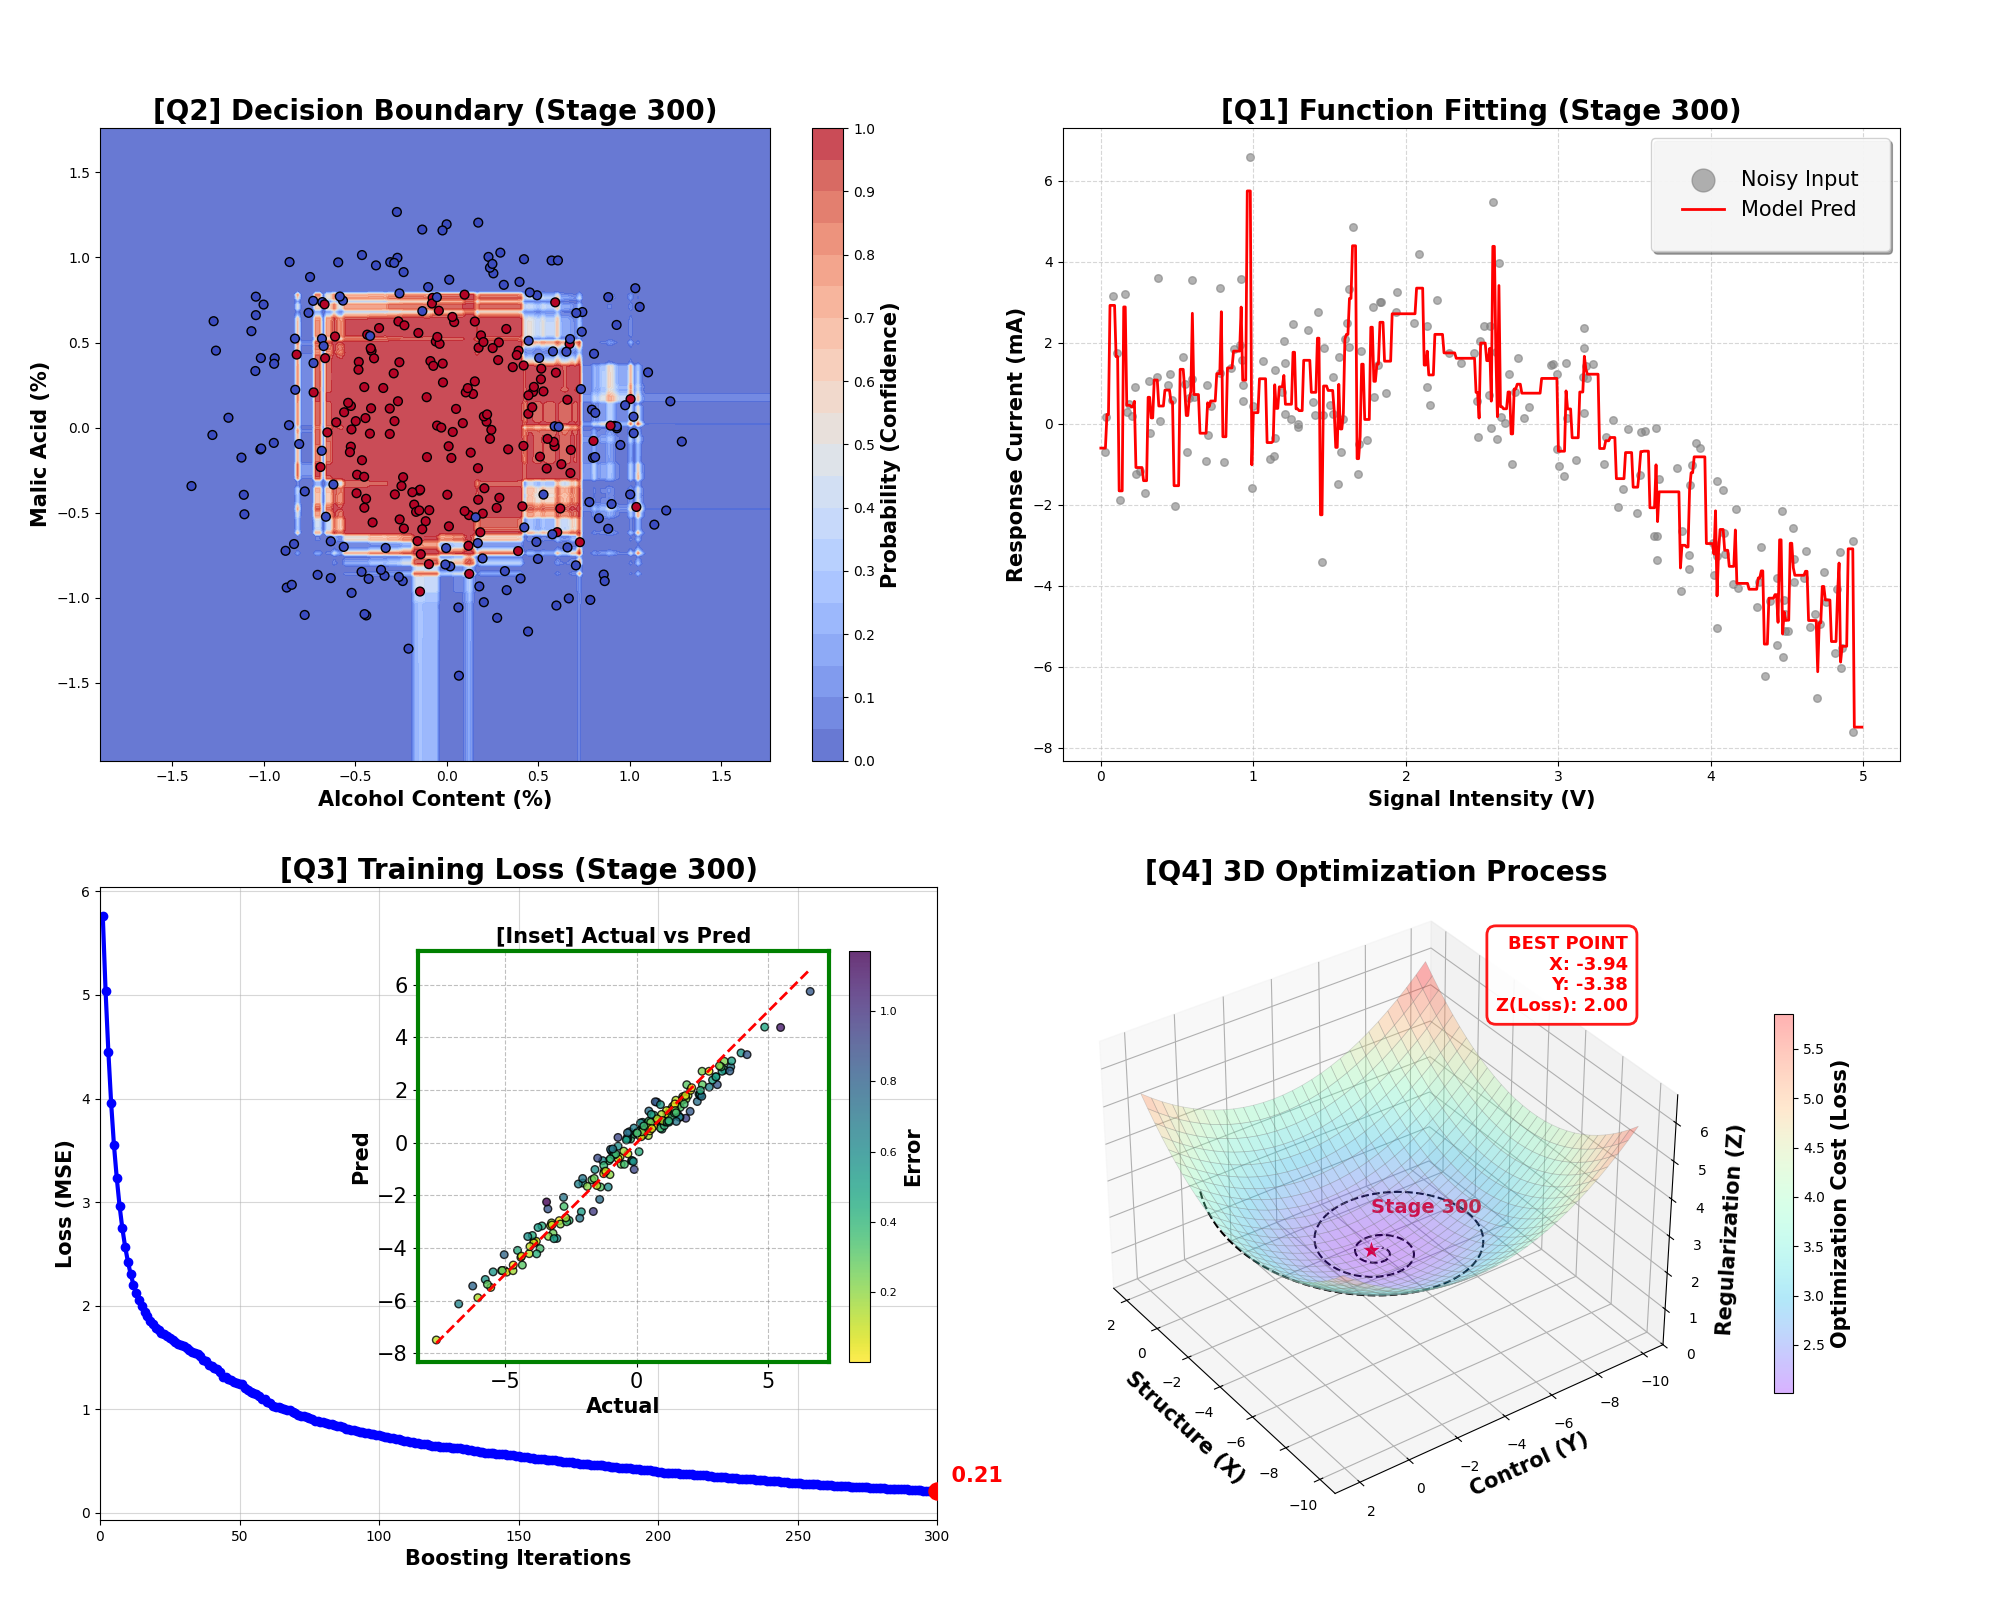
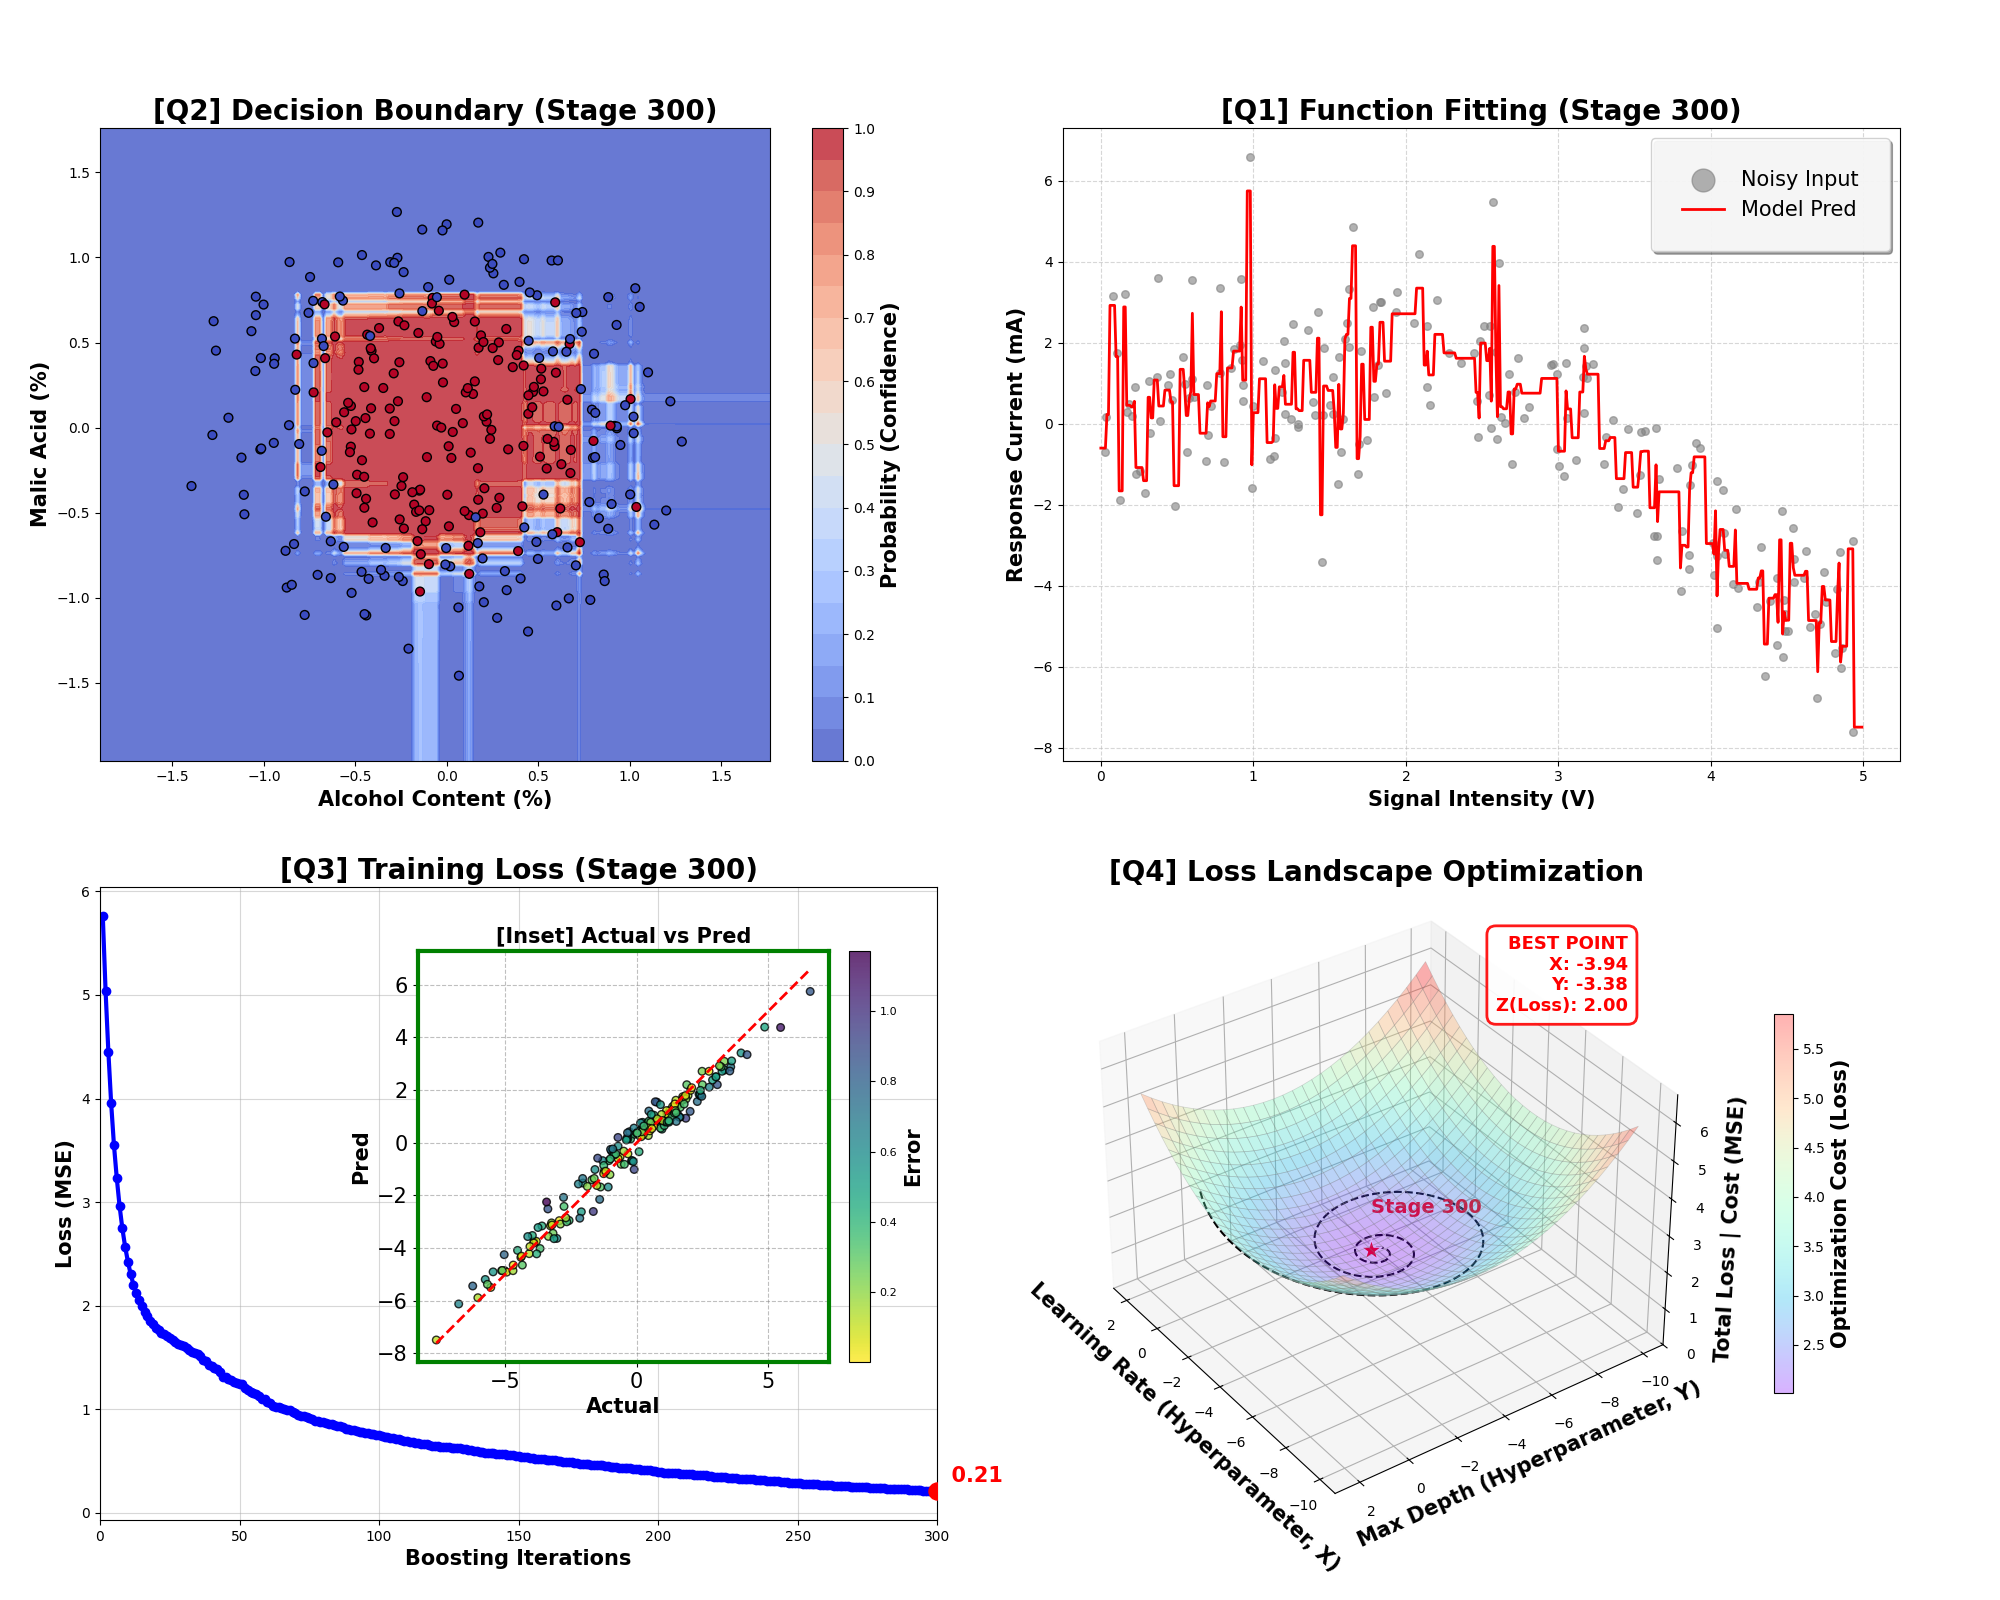
XGBoost Q4 라벨수정

diff --git a/01_GB_v3.py b/01_GB_v3.py
@@ -79,7 +79,10 @@ for idx, s in enumerate(stages):
     visual_z = 0.05 * ((cur_x - TARGET_X)**2 + (cur_y - TARGET_Y)**2) + MIN_EXPECTED_LOSS
     
     csv_data.append({
-        'Stage': s, 'Structure_X': cur_x, 'Control_Y': cur_y, 'Regularization_Z': visual_z
+        'Stage': s, 
+        'Learning Rate (Hyperparameter, X)': cur_x, 
+        'Max Depth (Hyperparameter, Y)': cur_y, 
+        'Total Loss | Cost (MSE)': visual_z
     })
 
     # --- 캔버스 생성 ---
@@ -186,9 +189,9 @@ for idx, s in enumerate(stages):
                             edgecolor='gray', linewidth=0.5, rstride=1, cstride=1)
     
     # Trajectory
-    hist_x = [d['Structure_X'] for d in csv_data]
-    hist_y = [d['Control_Y'] for d in csv_data]
-    hist_z = [d['Regularization_Z'] for d in csv_data]
+    hist_x = [d['Learning Rate (Hyperparameter, X)'] for d in csv_data]
+    hist_y = [d['Max Depth (Hyperparameter, Y)'] for d in csv_data]
+    hist_z = [d['Total Loss | Cost (MSE)'] for d in csv_data]
     
     ax4.plot(hist_x, hist_y, hist_z, color='black', linewidth=1.5, linestyle='--')
     ax4.scatter(cur_x, cur_y, visual_z, color='red', s=250, marker='*', zorder=10, edgecolors='white')
@@ -204,10 +207,11 @@ for idx, s in enumerate(stages):
                color='red', fontsize=13, fontweight='bold',
                ha='right', va='bottom', bbox=bbox_props)
 
-    ax4.set_title(f'[Q4] 3D Optimization Process', fontsize=FS_TITLE, fontweight=FW)
-    ax4.set_xlabel('Structure (X)', fontsize=FS_LABEL, fontweight=FW)
-    ax4.set_ylabel('Control (Y)', fontsize=FS_LABEL, fontweight=FW)
-    ax4.set_zlabel('Regularization (Z)', fontsize=FS_LABEL, fontweight=FW)
+    ax4.set_title(f'[Q4] Loss Landscape Optimization', fontsize=FS_TITLE, fontweight=FW)
+    ax4.set_xlabel('Learning Rate (Hyperparameter, X)', fontsize=FS_LABEL, fontweight=FW)
+    ax4.set_ylabel('Max Depth (Hyperparameter, Y)', fontsize=FS_LABEL, fontweight=FW)
+    ax4.set_zlabel('Total Loss | Cost (MSE)', fontsize=FS_LABEL, fontweight=FW)
+
 
     # [수정 5] Z축 범위 설정 (0 ~ 곡면 최대 높이 * 1.2)
     ax4.set_zlim(0, Z_surf.max() * 1.1)

diff --git a/01_XGBoost_v1.py b/01_XGBoost_v1.py
@@ -95,7 +95,10 @@ for idx, s in enumerate(stages):
     visual_z = 0.05 * ((cur_x - TARGET_X)**2 + (cur_y - TARGET_Y)**2) + MIN_EXPECTED_LOSS
     
     csv_data.append({
-        'Stage': s, 'Structure_X': cur_x, 'Control_Y': cur_y, 'Regularization_Z': visual_z
+        'Stage': s, 
+        'Learning Rate (Hyperparameter, X)': cur_x, 
+        'Max Depth (Hyperparameter, Y)': cur_y, 
+        'Total Loss | Cost (MSE)': visual_z
     })
 
     # --- 캔버스 생성 ---
@@ -202,9 +205,9 @@ for idx, s in enumerate(stages):
                             edgecolor='gray', linewidth=0.5, rstride=1, cstride=1)
     
     # Trajectory
-    hist_x = [d['Structure_X'] for d in csv_data]
-    hist_y = [d['Control_Y'] for d in csv_data]
-    hist_z = [d['Regularization_Z'] for d in csv_data]
+    hist_x = [d['Learning Rate (Hyperparameter, X)'] for d in csv_data]
+    hist_y = [d['Max Depth (Hyperparameter, Y)'] for d in csv_data]
+    hist_z = [d['Total Loss | Cost (MSE)'] for d in csv_data]
     
     ax4.plot(hist_x, hist_y, hist_z, color='black', linewidth=1.5, linestyle='--')
     ax4.scatter(cur_x, cur_y, visual_z, color='red', s=250, marker='*', zorder=10, edgecolors='white')
@@ -220,10 +223,10 @@ for idx, s in enumerate(stages):
                color='red', fontsize=13, fontweight='bold',
                ha='right', va='bottom', bbox=bbox_props)
 
-    ax4.set_title(f'[Q4] 3D Optimization Process', fontsize=FS_TITLE, fontweight=FW)
-    ax4.set_xlabel('Structure (X)', fontsize=FS_LABEL, fontweight=FW)
-    ax4.set_ylabel('Control (Y)', fontsize=FS_LABEL, fontweight=FW)
-    ax4.set_zlabel('Regularization (Z)', fontsize=FS_LABEL, fontweight=FW)
+    ax4.set_title(f'[Q4] Loss Landscape Optimization', fontsize=FS_TITLE, fontweight=FW)
+    ax4.set_xlabel('Learning Rate (Hyperparameter, X)', fontsize=FS_LABEL, fontweight=FW)
+    ax4.set_ylabel('Max Depth (Hyperparameter, Y)', fontsize=FS_LABEL, fontweight=FW)
+    ax4.set_zlabel('Total Loss | Cost (MSE)', fontsize=FS_LABEL, fontweight=FW)
 
     # [수정 5] Z축 범위 설정 (0 ~ 곡면 최대 높이 * 1.2)
     ax4.set_zlim(0, Z_surf.max() * 1.1)
